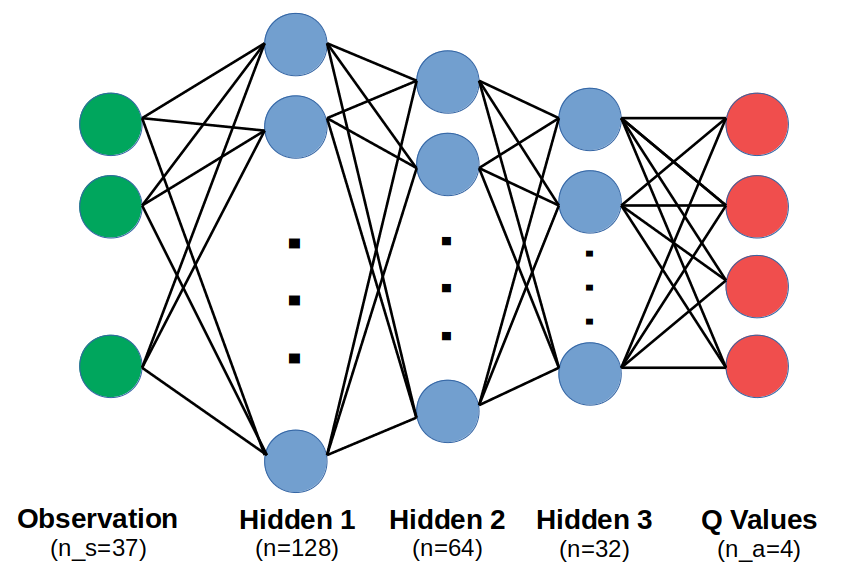
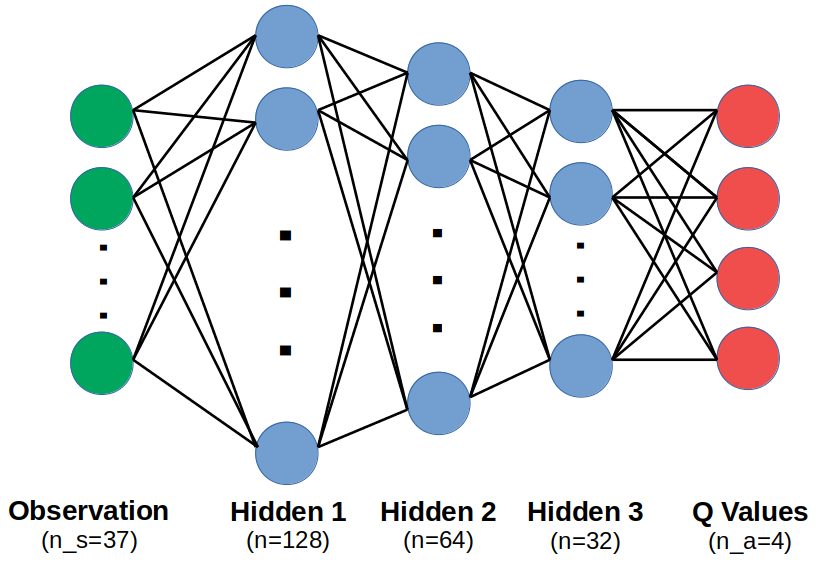
Minor fixes to README and the neural net architecture image

diff --git a/README.md b/README.md
@@ -31,4 +31,4 @@ To get started with this project, first you should perform the setup steps in th
 3. Clone the [Udacity repo]((https://github.com/udacity/deep-reinforcement-learning)) and install the Python requirements included
 4. Download the Banana World Unity files appropriate for your operating system and architecture ([Linux](https://s3-us-west-1.amazonaws.com/udacity-drlnd/P1/Banana/Banana_Linux.zip), [Mac OSX](https://s3-us-west-1.amazonaws.com/udacity-drlnd/P1/Banana/Banana.app.zip), [Win32](https://s3-us-west-1.amazonaws.com/udacity-drlnd/P1/Banana/Banana_Windows_x86.zip), [Win64](https://s3-us-west-1.amazonaws.com/udacity-drlnd/P1/Banana/Banana_Windows_x86_64.zip))
 
-Once you have performed this setup, you should be ready to run the [`banana_world_dqn.ipynb`](banana_world.dqn.ipynb) Jupyter Notebook in this repo. This notebook contains all the steps needed to define and train a DQN Agent to solve this environment.
+Once you have performed this setup, you should be ready to run the [`banana_world_dqn.ipynb`](banana_world_dqn.ipynb) Jupyter Notebook in this repo. This notebook contains all the steps needed to define and train a DQN Agent to solve this environment.
